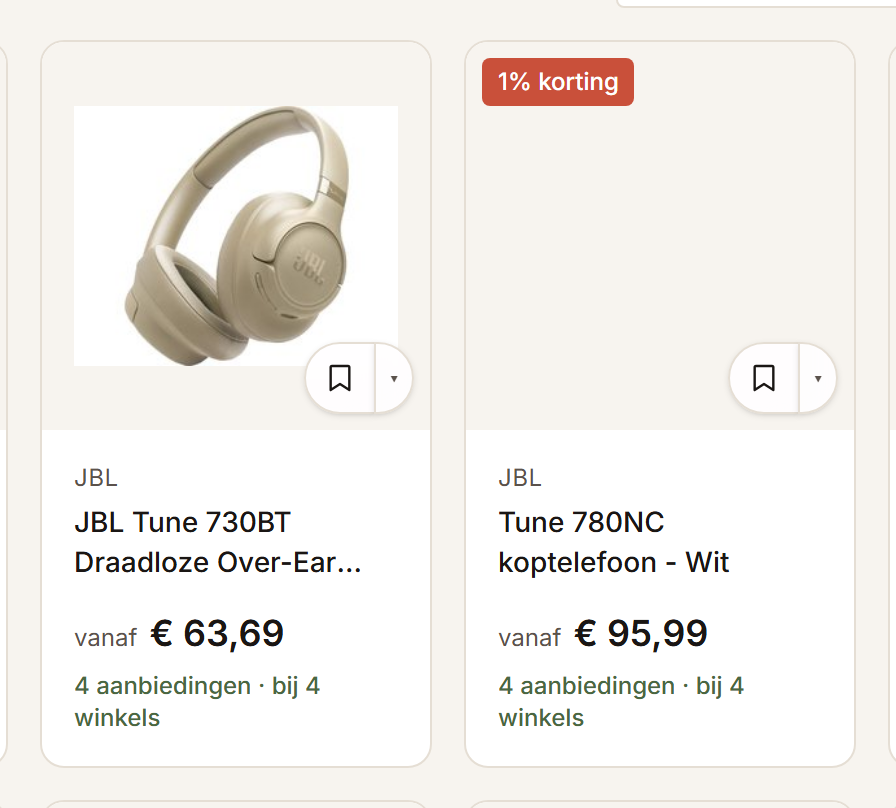
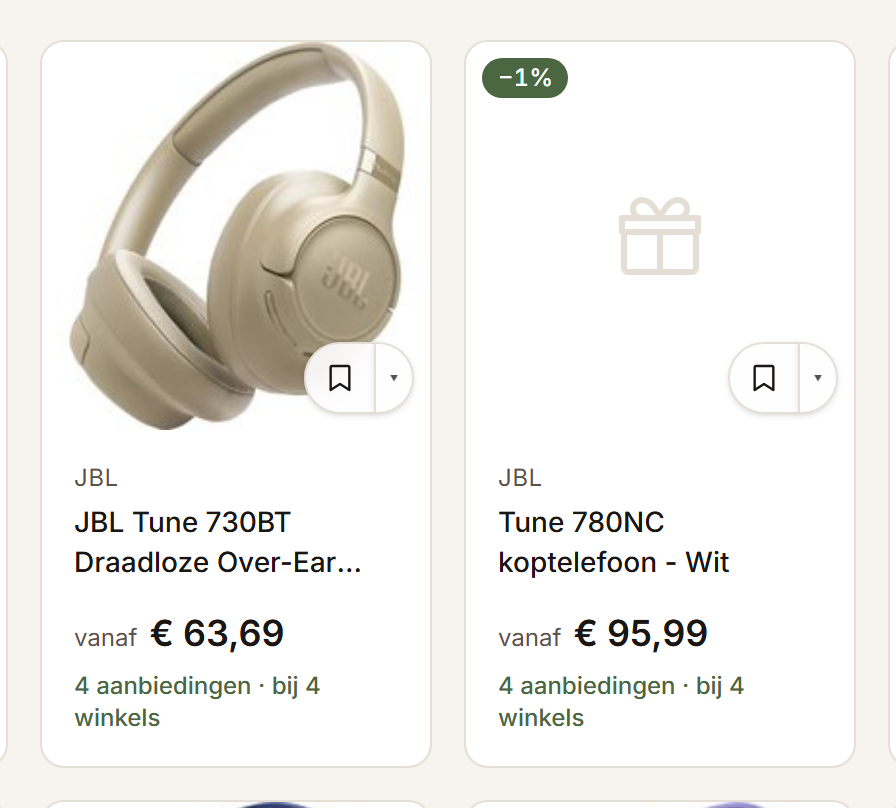
The list help page describes the lists of today
The text described the interface of two days ago. Since then the save
control lost its chevron on phones, the new-list button became the
three-step wizard, sharing gained friends by name, the list card shows a
price drop, and the owner may switch on seeing claims. Seven strings were
rewritten in four languages and a short "what else you can do" section
added: your own items, copying from a shared list, friends and birthdays.
The nine screenshots were re-taken with the committed script.

diff --git a/resources/js/Pages/Lists/Help.tsx b/resources/js/Pages/Lists/Help.tsx
@@ -114,6 +114,19 @@ export default function ListHelp({ shots, urls }: Props) {
                 <h2 className="mt-12 text-lg font-semibold text-ink">{t('lists_help.private_title')}</h2>
                 <p className="mt-2 text-ink-soft">{t('lists_help.private_body')}</p>
 
+                {/*
+                  What grew around the list since the page was written: your
+                  own items, copying from a shared list, friends. Three lines,
+                  not three sections; each is a thing to know exists, and the
+                  interface explains itself once you are there.
+                */}
+                <h2 className="mt-12 text-lg font-semibold text-ink">{t('lists_help.more_title')}</h2>
+                <ul className="mt-4 list-disc space-y-2 pl-5 text-ink-soft">
+                    <li>{t('lists_help.more_own')}</li>
+                    <li>{t('lists_help.more_copy')}</li>
+                    <li>{t('lists_help.more_friends')}</li>
+                </ul>
+
                 <div className="mt-12 flex flex-wrap gap-3">
                     <Link
                         href={urls.search}

diff --git a/lang/fr/site.php b/lang/fr/site.php
@@ -1722,28 +1722,33 @@ return [
         'seo_title' => 'Enregistrer des produits dans une liste',
         'seo_description' => "Enregistrez ce que vous trouvez ici dans une liste de souhaits, créez-en une pour quelqu'un d'autre et suivez ce que vous offrez. En images.",
         'title' => 'Comment fonctionnent les listes',
-        'intro' => "Une liste, c'est là où vous gardez ce que vous trouvez ici — pour vous, ou pour quelqu'un à qui vous offrez. Pas besoin d'en créer une d'abord : enregistrer un produit vous le propose.",
+        'intro' => 'Une liste garde ce que vous trouvez ici : pour vous, ou pour quelqu’un à qui vous offrez. Pas besoin d’en créer une d’abord. L’enregistrement le propose, et la page d’accueil a un bouton qui en crée une en trois étapes.',
         'link' => 'Comment fonctionnent les listes ?',
 
         'step_find' => 'Trouvez quelque chose à garder',
-        'step_find_body' => "Cherchez, ou parcourez un guide. Chaque fiche produit porte un marque-page, en bas à droite de l'image.",
+        'step_find_body' => 'Cherchez, ou parcourez une Cove. Chaque fiche produit porte un marque-page sur sa photo.',
         'step_find_alt' => 'Deux fiches produit, chacune avec un bouton marque-page dans le coin de son image.',
 
         'step_save' => 'Enregistrez-le et choisissez une liste',
-        'step_save_body' => "Touchez le marque-page pour enregistrer directement, ou la petite flèche à côté pour choisir la liste. C'est aussi là que vous en créez une nouvelle.",
+        'step_save_body' => 'Touchez le marque-page et c’est dans votre liste. Touchez encore pour choisir une autre liste ou en commencer une. Sur un ordinateur, une petite flèche à côté du marque-page ouvre ce volet directement.',
         'step_save_alt' => "Le panneau ouvert à côté d'un produit, avec les listes disponibles et l'option d'en créer une nouvelle.",
 
         'step_open' => 'Ouvrez vos listes',
-        'step_open_body' => "Tout ce que vous avez enregistré se trouve dans Mes listes. Chaque liste indique ce qu'elle contient, si elle est privée et pour qui elle est.",
+        'step_open_body' => 'Tout ce que vous avez enregistré est sous Mes listes. Chaque liste montre ce qu’elle contient, si elle est privée et pour qui elle est. Quand un prix baisse, la fiche le dit.',
         'step_open_alt' => 'La page mes listes, avec deux listes et le bouton qui en crée une autre.',
 
         'making_title' => 'Créer une liste',
         'making_body' => 'De deux façons, et la première est celle que presque tout le monde utilise.',
-        'making_from_save' => 'Pendant que vous enregistrez : ouvrez le panneau à côté du marque-page et choisissez de créer une liste. Ce que vous enregistriez y est placé aussitôt.',
-        'making_from_lists' => "Depuis Mes listes : le bouton en haut à droite. Pratique quand vous savez à quoi sert la liste avant d'avoir trouvé quoi que ce soit.",
+        'making_from_save' => 'En enregistrant : touchez le marque-page et choisissez une nouvelle liste. Ce que vous enregistriez y va tout de suite.',
+        'making_from_lists' => 'Avec le bouton « Créer une nouvelle liste » sur la page d’accueil ou sous Mes listes : trois étapes, pour qui, quelle occasion, et si elle reste privée ou si vous la partagez plus tard.',
 
         'private_title' => 'Qui peut la voir',
-        'private_body' => 'Une liste est privée tant que vous ne la partagez pas. Si vous la partagez avec les personnes qui vous offrent quelque chose, elles peuvent cocher ce qu\'elles prennent, et vous ne voyez pas qui a pris quoi : la surprise reste entière.',
+        'private_body' => 'Une liste est privée tant que vous ne la partagez pas, par un lien ou avec des amis par leur nom. Qui l’ouvre peut cocher ce qu’il achète. Vous ne voyez pas qui a pris quoi, sauf si vous l’activez pour la liste, donc la surprise tient.',
+
+        'more_title' => 'Ce que vous pouvez faire d’autre',
+        'more_own' => 'Ajouter quelque chose qui n’est pas sur ce site : votre propre article avec un nom, et si vous voulez un lien et un prix.',
+        'more_copy' => 'Copier un produit d’une liste qu’on a partagée avec vous vers une de vos listes.',
+        'more_friends' => 'Ajouter des amis, partager une liste avec eux par leur nom, et être prévenu à temps quand un anniversaire approche.',
 
         'cta_search' => 'Trouver quelque chose à enregistrer',
         'cta_lists' => 'Voir mes listes',

diff --git a/lang/nl/site.php b/lang/nl/site.php
@@ -1733,28 +1733,35 @@ return [
         'seo_title' => 'Producten bewaren in een lijstje',
         'seo_description' => 'Bewaar alles wat je hier vindt in een verlanglijstje, maak een lijstje voor iemand anders en hou bij wat je geeft. Drie stappen, met beeld.',
         'title' => 'Hoe lijstjes werken',
-        'intro' => 'In een lijstje bewaar je wat je hier vindt — voor jezelf, of voor iemand voor wie je iets koopt. Je hoeft er niet eerst een te maken: bij het bewaren wordt het aangeboden.',
+        'intro' => 'In een lijstje bewaar je wat je hier vindt: voor jezelf, of voor iemand voor wie je iets koopt. Je hoeft er niet eerst een te maken. Bij het bewaren wordt het aangeboden, en op de startpagina staat een knop die er in drie stappen een maakt.',
         'link' => 'Hoe werken lijstjes?',
 
         'step_find' => 'Vind iets dat je wilt bewaren',
-        'step_find_body' => 'Zoek, of blader door een gids. Op elke productkaart staat rechtsonder in de foto een bladwijzer.',
+        'step_find_body' => 'Zoek, of blader door een Cove. Op elke productkaart staat in de foto een bladwijzer.',
         'step_find_alt' => 'Twee productkaarten, elk met een bladwijzerknop in de hoek van de foto.',
 
         'step_save' => 'Bewaar het en kies een lijstje',
-        'step_save_body' => 'Tik op de bladwijzer om het meteen te bewaren, of op het pijltje ernaast om te kiezen in welk lijstje. In datzelfde venster maak je ook een nieuw lijstje.',
+        'step_save_body' => 'Tik op de bladwijzer en het staat in je lijstje. Tik nog eens om een ander lijstje te kiezen of een nieuw te beginnen. Op een computer staat naast de bladwijzer een pijltje dat dat venster meteen opent.',
         'step_save_alt' => 'Het geopende venster naast een product, met de lijstjes om in te bewaren en de optie om een nieuw lijstje te beginnen.',
 
         'step_open' => 'Open je lijstjes',
-        'step_open_body' => 'Alles wat je bewaarde staat onder Mijn lijstjes. Je ziet per lijstje wat erin zit, of het privé is en voor wie het bedoeld is.',
+        'step_open_body' => 'Alles wat je bewaarde staat onder Mijn lijstjes. Je ziet per lijstje wat erin zit, of het privé is en voor wie het bedoeld is. Zakt de prijs van iets, dan zie je dat op de kaart.',
         'step_open_alt' => 'De pagina met mijn lijstjes, met twee lijstjes en de knop waarmee je er een maakt.',
 
         'making_title' => 'Een lijstje maken',
         'making_body' => 'Op twee manieren, en de eerste gebruikt bijna iedereen.',
-        'making_from_save' => 'Tijdens het bewaren: open het venster naast de bladwijzer en kies voor een nieuw lijstje. Wat je aan het bewaren was staat er meteen in.',
-        'making_from_lists' => 'Vanuit Mijn lijstjes: de knop rechtsboven. Handig als je al weet waarvoor het lijstje is voordat je er iets voor gevonden hebt.',
+        'making_from_save' => 'Tijdens het bewaren: tik op de bladwijzer en kies voor een nieuw lijstje. Wat je aan het bewaren was staat er meteen in.',
+        'making_from_lists' => 'Met de knop “Maak een nieuw lijstje” op de startpagina of onder Mijn lijstjes: drie stappen, voor wie het is, welke gelegenheid, en of het privé blijft of je het later deelt.',
 
         'private_title' => 'Wie het kan zien',
-        'private_body' => 'Een lijstje is privé tot je het deelt. Deel je het met de mensen die iets voor je kopen, dan kunnen zij aanvinken wat ze nemen — en jij ziet niet wie wat genomen heeft, dus de verrassing blijft.',
+        'private_body' => 'Een lijstje is privé tot je het deelt, met een link of met vrienden op naam. Wie het opent, kan aanvinken wat hij koopt. Jij ziet niet wie wat genomen heeft, tenzij je dat zelf aanzet bij het lijstje, dus de verrassing blijft.',
+
+
+
+        'more_title' => 'Wat er nog kan',
+        'more_own' => 'Iets toevoegen dat hier niet te vinden is: een eigen item met een naam, en als je wilt een link en een prijs.',
+        'more_copy' => 'Een product van een gedeeld lijstje kopiëren naar een lijstje van jou.',
+        'more_friends' => 'Vrienden toevoegen, een lijstje op naam met hen delen, en een seintje krijgen als iemand bijna jarig is.',
 
         'cta_search' => 'Zoek iets om te bewaren',
         'cta_lists' => 'Naar mijn lijstjes',

diff --git a/lang/es/site.php b/lang/es/site.php
@@ -1720,28 +1720,33 @@ return [
         'seo_title' => 'Guardar productos en una lista',
         'seo_description' => 'Guarda lo que encuentres aquí en una lista de deseos, crea una lista para otra persona y lleva la cuenta de lo que regalas. Tres pasos, con imágenes.',
         'title' => 'Cómo funcionan las listas',
-        'intro' => 'Una lista es donde guardas lo que encuentras aquí — para ti, o para alguien a quien vas a regalar. No hace falta crearla antes: al guardar algo se te ofrece.',
+        'intro' => 'Una lista guarda lo que encuentras aquí: para ti, o para alguien a quien le regalas. No hace falta crearla antes. Al guardar se te ofrece, y la portada tiene un botón que crea una en tres pasos.',
         'link' => '¿Cómo funcionan las listas?',
 
         'step_find' => 'Encuentra algo que quieras guardar',
-        'step_find_body' => 'Busca, o recorre una guía. Cada ficha de producto lleva un marcador, abajo a la derecha de la imagen.',
+        'step_find_body' => 'Busca, o recorre una Cove. Cada ficha de producto lleva un marcador sobre su foto.',
         'step_find_alt' => 'Dos fichas de producto, cada una con un botón de marcador en la esquina de su imagen.',
 
         'step_save' => 'Guárdalo y elige una lista',
-        'step_save_body' => 'Toca el marcador para guardarlo directamente, o la flecha pequeña de al lado para elegir la lista. Ahí mismo creas una nueva.',
+        'step_save_body' => 'Toca el marcador y ya está en tu lista. Toca otra vez para elegir otra lista o empezar una nueva. En un ordenador, una flecha pequeña junto al marcador abre ese panel directamente.',
         'step_save_alt' => 'El panel abierto junto a un producto, con las listas donde guardar y la opción de crear una nueva.',
 
         'step_open' => 'Abre tus listas',
-        'step_open_body' => 'Todo lo que guardaste está en Mis listas. Cada lista muestra lo que contiene, si es privada y para quién es.',
+        'step_open_body' => 'Todo lo que guardaste está en Mis listas. Cada lista muestra qué contiene, si es privada y para quién es. Cuando baja un precio, la ficha lo dice.',
         'step_open_alt' => 'La página de mis listas, con dos listas y el botón que crea otra.',
 
         'making_title' => 'Crear una lista',
         'making_body' => 'De dos maneras, y la primera es la que usa casi todo el mundo.',
-        'making_from_save' => 'Mientras guardas un producto: abre el panel junto al marcador y elige crear una lista nueva. Lo que estabas guardando entra directamente en ella.',
-        'making_from_lists' => 'Desde Mis listas: el botón de arriba a la derecha. Útil cuando ya sabes para qué es la lista antes de haber encontrado nada.',
+        'making_from_save' => 'Al guardar: toca el marcador y elige una lista nueva. Lo que estabas guardando entra en ella al momento.',
+        'making_from_lists' => 'Con el botón «Crear una lista nueva» en la portada o en Mis listas: tres pasos, para quién es, qué ocasión, y si se queda privada o la compartes después.',
 
         'private_title' => 'Quién puede verla',
-        'private_body' => 'Una lista es privada hasta que la compartes. Si la compartes con quienes te van a regalar algo, pueden marcar lo que se llevan, y tú no ves quién se llevó qué, así que la sorpresa se mantiene.',
+        'private_body' => 'Una lista es privada hasta que la compartes, con un enlace o con amigos por su nombre. Quien la abre puede marcar lo que compra. Tú no ves quién cogió qué, salvo que lo actives en la lista, así la sorpresa se mantiene.',
+
+        'more_title' => 'Qué más puedes hacer',
+        'more_own' => 'Añadir algo que no está en este sitio: un artículo propio con un nombre, y si quieres un enlace y un precio.',
+        'more_copy' => 'Copiar un producto de una lista que compartieron contigo a una lista tuya.',
+        'more_friends' => 'Añadir amigos, compartir una lista con ellos por su nombre, y recibir un aviso a tiempo cuando se acerca un cumpleaños.',
 
         'cta_search' => 'Buscar algo que guardar',
         'cta_lists' => 'Ir a mis listas',

diff --git a/lang/en/site.php b/lang/en/site.php
@@ -1943,28 +1943,35 @@ return [
         'seo_title' => 'How to save products to a list',
         'seo_description' => 'Save anything you find to a wish list, make a list for somebody else, and keep track of what you are giving. Three steps, with pictures.',
         'title' => 'How lists work',
-        'intro' => 'A list is where you keep the things you find here — for yourself, or for somebody you are buying for. You do not have to make one first: saving anything offers to.',
+        'intro' => 'A list keeps what you find here: for yourself, or for someone you are buying for. You do not have to make one first. Saving offers to create one, and the home page has a button that makes one in three steps.',
         'link' => 'How do lists work?',
 
         'step_find' => 'Find something worth keeping',
-        'step_find_body' => 'Search, or browse a guide. Every product card has a bookmark on it, bottom right of the picture.',
+        'step_find_body' => 'Search, or browse a Cove. Every product card carries a bookmark on its picture.',
         'step_find_alt' => 'Two product cards, each with a bookmark button in the corner of its picture.',
 
         'step_save' => 'Save it, and pick a list',
-        'step_save_body' => 'Tap the bookmark to save it straight away, or the small arrow beside it to choose which list. That panel is also where you make a new one.',
+        'step_save_body' => 'Tap the bookmark and it is on your list. Tap again to pick another list or start a new one. On a computer a small arrow next to the bookmark opens that panel straight away.',
         'step_save_alt' => 'The panel open beside a product, listing the lists to save to and an option to start a new one.',
 
         'step_open' => 'Open your lists',
-        'step_open_body' => 'Everything you saved is under My lists. Each list shows what is on it, whether it is private, and who it is for.',
+        'step_open_body' => 'Everything you saved is under My lists. Each list shows what is on it, whether it is private and who it is for. When a price drops, the card says so.',
         'step_open_alt' => 'The my-lists page, with two lists and the button that makes another.',
 
         'making_title' => 'Making a list',
         'making_body' => 'Two ways, and the first is the one most people use.',
-        'making_from_save' => 'While saving a product: open the panel beside the bookmark and choose to start a new list. What you were saving goes straight onto it.',
-        'making_from_lists' => 'From My lists: the button at the top right. Useful when you know what the list is for before you have found anything for it.',
+        'making_from_save' => 'While saving: tap the bookmark and choose a new list. What you were saving goes straight onto it.',
+        'making_from_lists' => 'With the “Make a new list” button on the home page or under My lists: three steps, who it is for, which occasion, and whether it stays private or you share it later.',
 
         'private_title' => 'Who can see it',
-        'private_body' => 'A list is private until you share it. If you share one with the people buying for you, they can mark something as taken — and you will not see who took what, so nothing is spoiled.',
+        'private_body' => 'A list is private until you share it, with a link or with friends by name. Whoever opens it can tick what they are buying. You do not see who took what, unless you switch that on for the list, so the surprise holds.',
+
+
+
+        'more_title' => 'What else you can do',
+        'more_own' => 'Add something that is not on this site: your own item with a name, and a link and a price if you want.',
+        'more_copy' => 'Copy a product from a list someone shared with you onto a list of your own.',
+        'more_friends' => 'Add friends, share a list with them by name, and hear in time when someone\'s birthday is close.',
 
         'cta_search' => 'Find something to save',
         'cta_lists' => 'Go to my lists',

diff --git a/docs/features/list-help.md b/docs/features/list-help.md
@@ -82,6 +82,16 @@ left to the privacy page: **who can see a list**, and **whether the person it is
 has been bought**. The second is invariant 4 stated in plain words — claims are hidden from the
 owner unless they asked otherwise.
 
+## Brought up to date on 2026-09-08
+
+The text described the interface of 2026-09-06. Since then the compact save control lost its
+chevron on phones (one tap saves, a second opens the sheet; the arrow is a desktop thing), the
+"new list" button became the three-step wizard on the home page and under My lists, sharing
+gained friends by name, the list card shows a price drop, and the owner may switch on seeing
+claims. The seven affected strings were rewritten in four languages and a short "what else you
+can do" section was added: your own items, copying from a shared list, friends and birthdays. The
+screenshots were re-taken with the committed script the same day.
+
 ## Files
 
 - `app/Http/Controllers/ListHelpController.php`
